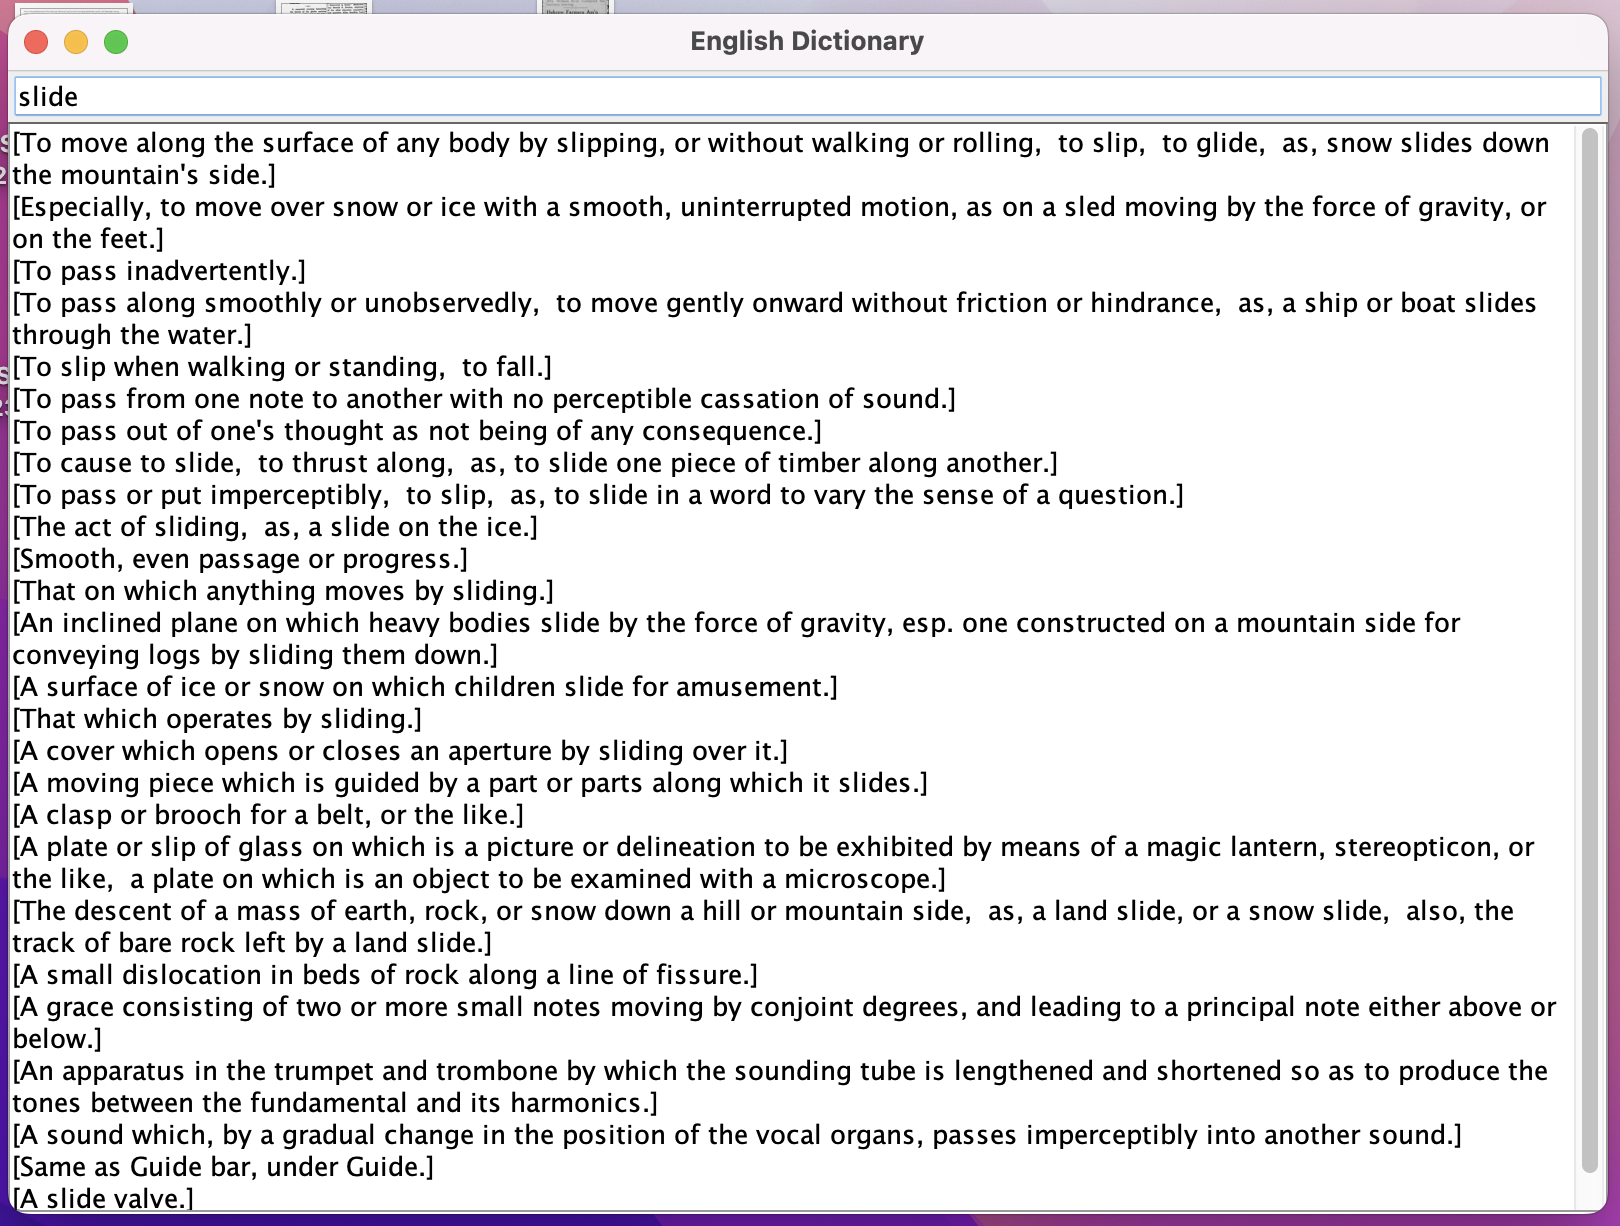
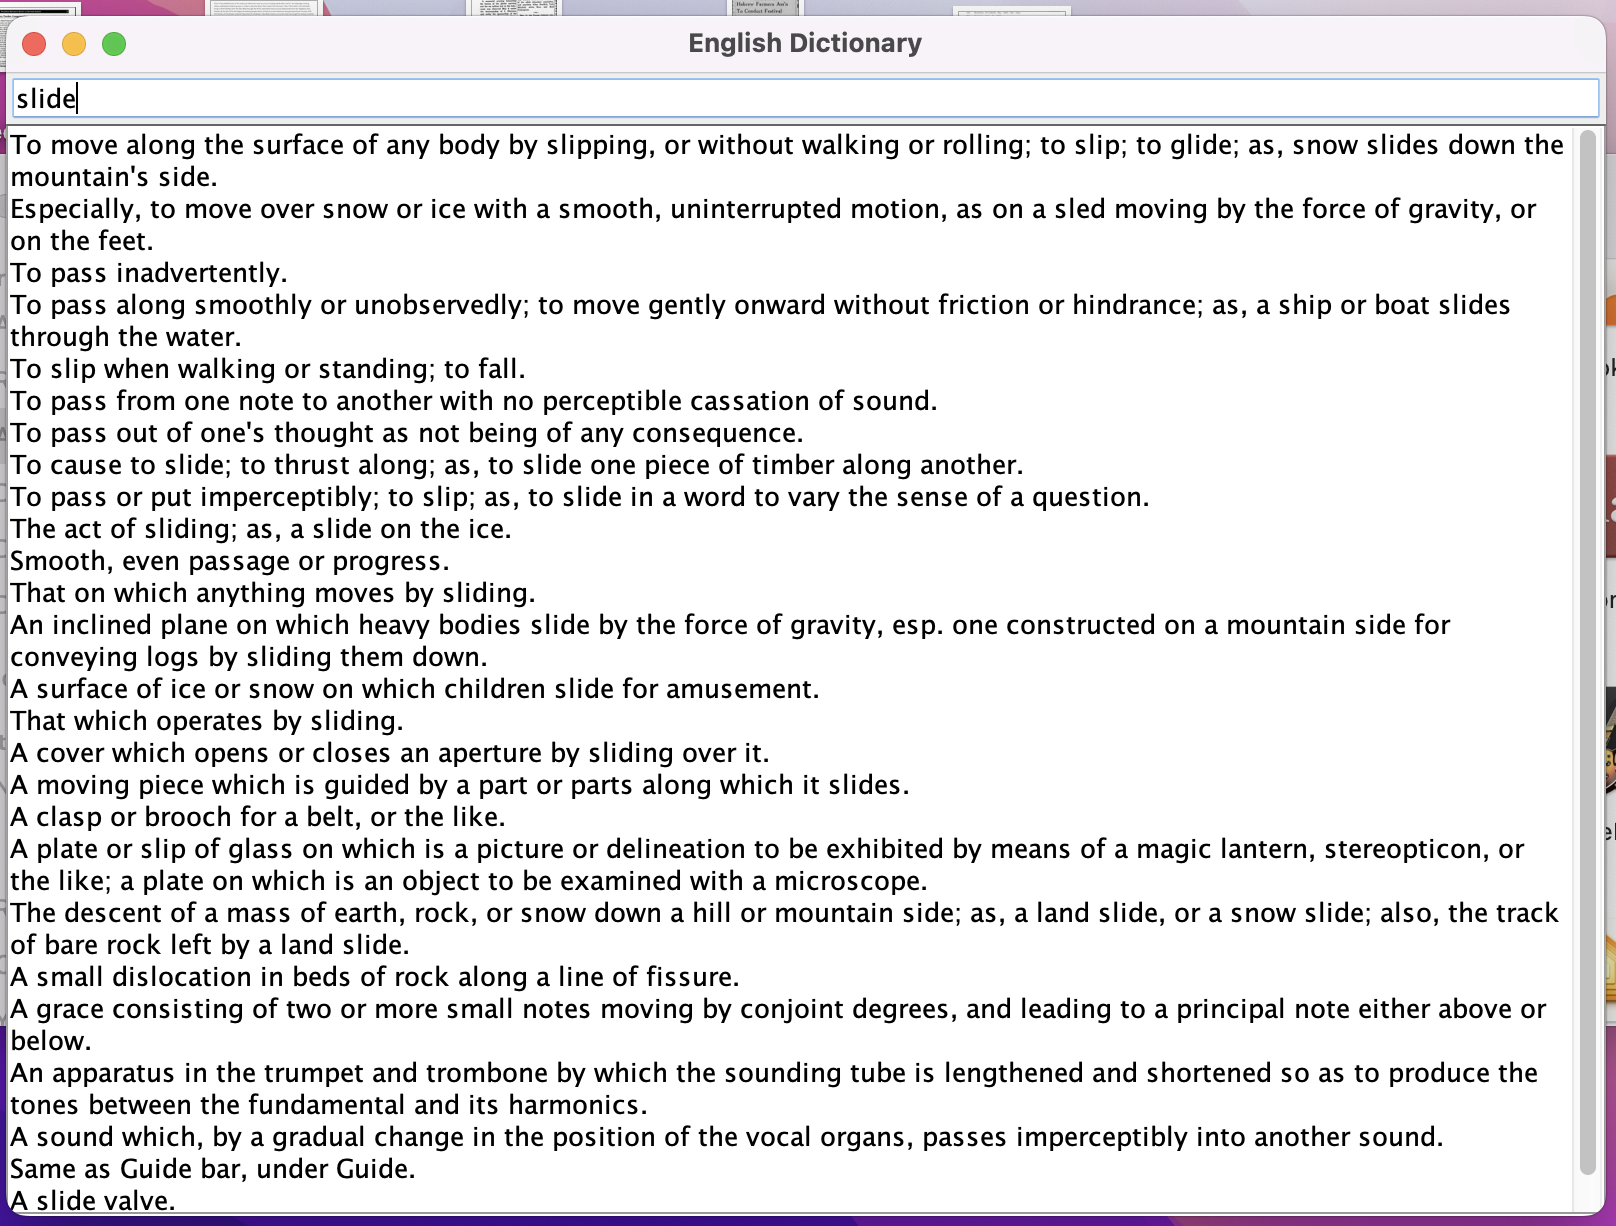
fixes

Changed region(s): [[0.0, 0.0, 1.0, 1.0]]

diff --git a/src/test/java/buchen/dictionary/EnglishDictionaryTest.java b/src/test/java/buchen/dictionary/EnglishDictionaryTest.java
@@ -19,10 +19,10 @@ public class EnglishDictionaryTest {
         List<String> definitions = dictionary.getDefinition("two");
 
         //then
-        List<String> expected = Arrays.asList("[One and one,  twice one.]",
-                "[The sum of one and one,  the number next greater than one, and next less than three,  " +
-                        "two units or objects.]",
-                "[A symbol representing two units, as 2, II., or ii.]");
+        List<String> expected = Arrays.asList("One and one; twice one.",
+                "The sum of one and one; the number next greater than one, " +
+                        "and next less than three; two units or objects.",
+                "A symbol representing two units, as 2, II., or ii.");
 
         assertEquals(expected, definitions);
     }

diff --git a/src/main/java/buchen/dictionary/EnglishDictionary.java b/src/main/java/buchen/dictionary/EnglishDictionary.java
@@ -39,7 +39,7 @@ public class EnglishDictionary {
 
         for (String[] record : words) {
             if (record[0].equalsIgnoreCase(word)) {
-                def.add(Arrays.toString(record[2].split(";")));
+                def.add(record[2]);
             }
         }
         return def;
